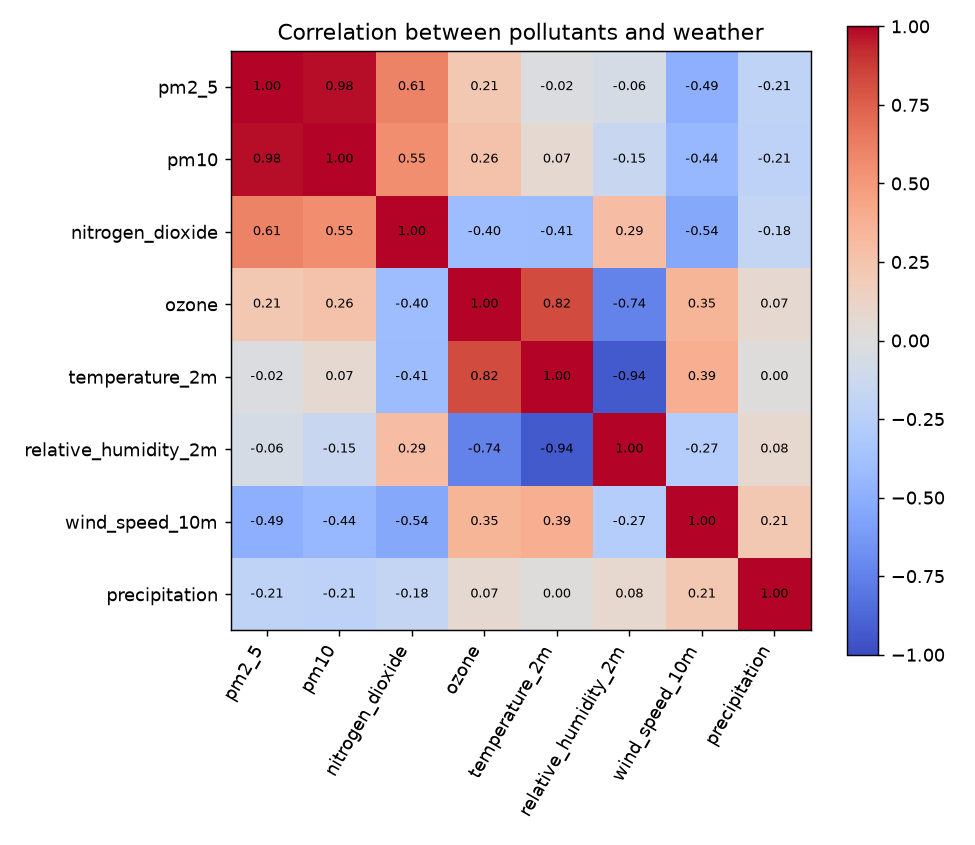
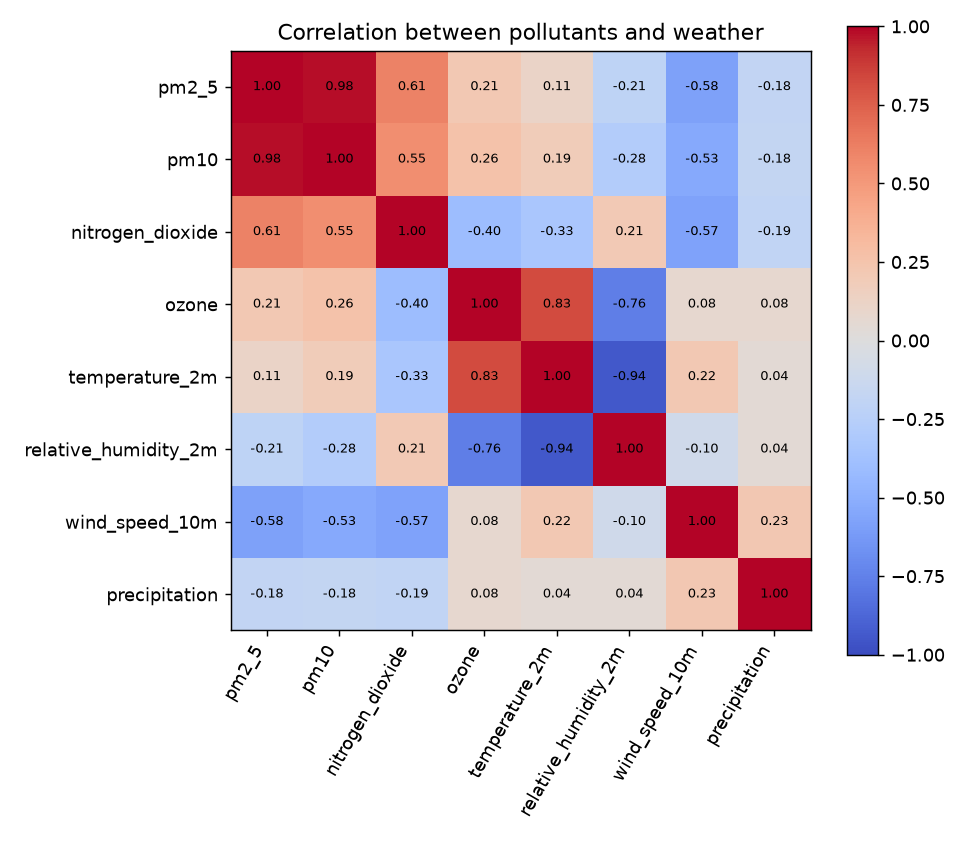
Ran notebook/eda.py on 26/10/2026

diff --git a/reports/insights.md b/reports/insights.md
@@ -1,8 +1,8 @@
 # Key findings (generated by notebooks/eda.py)
 
-- Data: 7,295 hourly rows, 27 Aug 2026 to 26 Oct 2026.
+- Data: 7,305 hourly rows, 27 Aug 2026 to 26 Oct 2026.
 - Most polluted area on average: **Hinjewadi** (26.7 ug/m3). Cleanest: **Pimpri-Chinchwad** (23.8 ug/m3).
 - Worst hour of the day: **23:00** (30.6 ug/m3). Best hour: **15:00** (18.9 ug/m3).
-- Weekends vs weekdays: PM2.5 is -1.5% on weekends.
-- Correlation of PM2.5 with wind speed: -0.49; with humidity: -0.06.
+- Weekends vs weekdays: PM2.5 is -1.6% on weekends.
+- Correlation of PM2.5 with wind speed: -0.58; with humidity: -0.21.
 - 0.1% of all hours were above 90 ug/m3 (CPCB 'Poor' or worse).
